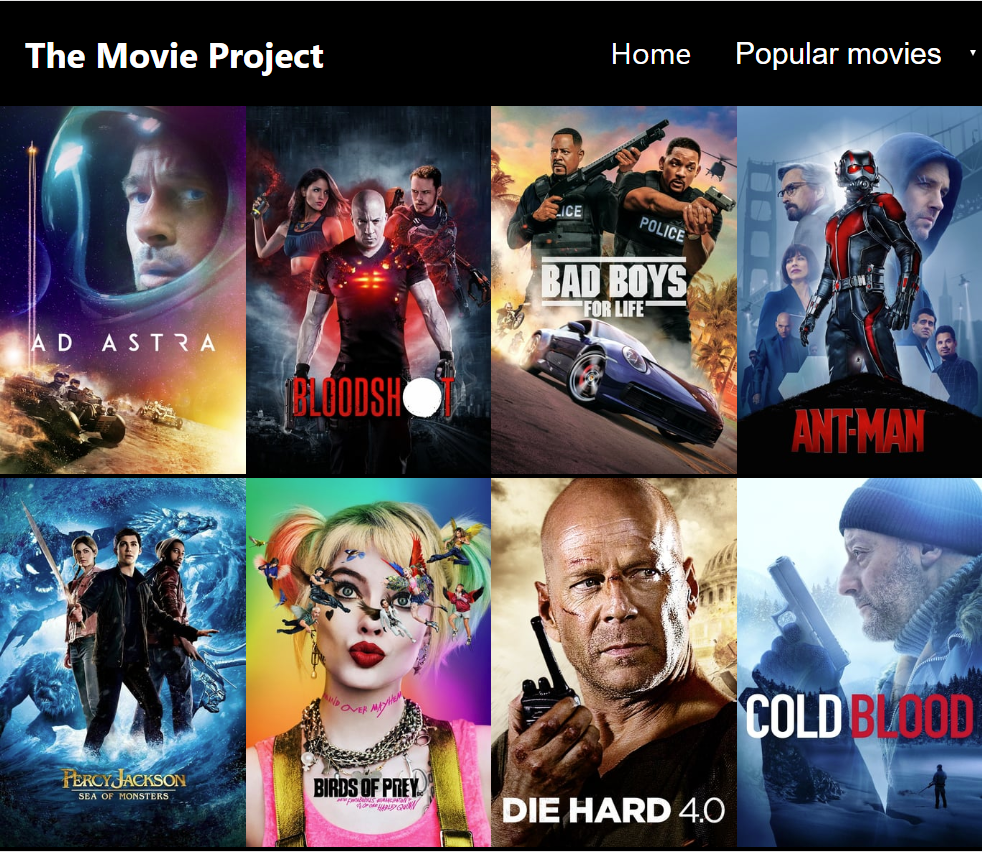
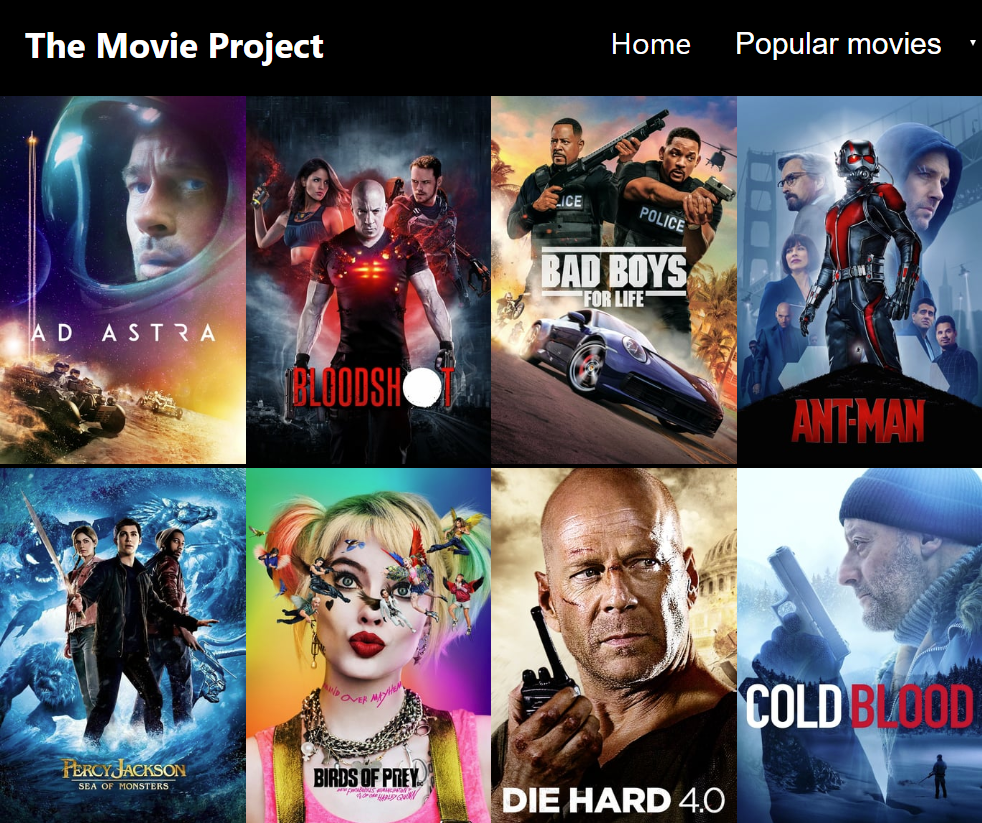
Styling & images updates

diff --git a/style.css b/style.css
@@ -21,7 +21,7 @@ header {
     background-size: cover;
     background-repeat: no-repeat;
     background-position: center;
-    filter: grayscale(40%);
+    filter: grayscale(30%);
 }
 
 .header-container {
@@ -110,7 +110,7 @@ section {
 }
 
 .grey {
-    background-color: rgb(241, 244, 244);
+    background-color: rgba(247, 144, 113, 0.05);
 }
 
 h4 {
@@ -121,13 +121,13 @@ h4 {
 }
 
 .heading-red {
-    background-color: #de7119;
+    background-color: rgb(255, 87, 51);
     color: #FFFFFF;
     font-size: 22px;
 }
 
 .heading-white {
-    color: #de7119;
+    color: #16817a;
     font-size: 21px;
     margin-top: 50px;
 }
@@ -145,7 +145,7 @@ section a:link {
 section a:hover {
     opacity: 0.7;
     text-decoration: underline;
-    color: rgba(250, 57, 47, 0.39);
+    color: rgb(255, 87, 51);
 }
 
 
@@ -158,7 +158,7 @@ section a:hover {
 .line-dot {
     height: 3px;
     width: 50px;
-    background-color: #FA382F;
+    background-color: #16817a;
     position: relative;
     float: left;
     top: 12px;
@@ -168,7 +168,7 @@ section a:hover {
 .line-dot::after {
     height: 11px;
     width: 11px;
-    background-color: #FA382F;
+    background-color: #16817a;
     border-radius: 50%;
     position: relative;
     content: "";
@@ -182,7 +182,7 @@ section a:hover {
 }
 
 .content span {
-    color: #FA382F;
+    color: rgb(255, 87, 51);
 }
 
 
@@ -193,14 +193,14 @@ section a:hover {
 
 .project-image-container {
     width: 100%;
-    height: 65%;
+    height: 232px;
     position: relative;
 }
 
 .project-cards img {
     width: 100%;
     height: 100%;
-    filter: grayscale(30%)
+    filter: grayscale(50%)
 }
 
 .filter-image {
@@ -209,7 +209,7 @@ section a:hover {
     left: 0;
     width: 100%;
     height: 100%;
-    background-color: rgba(0, 0, 0, 0.3);
+    background-color: rgba(95, 93, 93, 0.3);
     display: flex;
     align-items: center;
     justify-content: center;
@@ -225,12 +225,12 @@ section a:hover {
 
 .project-title {
     font-weight: bold;
-    color: #FA382F;
+    color: rgb(255, 87, 51);
 }
 
 .project-title-arrows {
     font-weight: bold;
-    color: #FA382F;
+    color: rgb(255, 87, 51);
     text-decoration: underline;
 }
 
@@ -240,9 +240,11 @@ section a:hover {
 }
 
 .code-language-cards {
-    background-color: #FDDFE7;
-    color: #2B2E34;
-    font-size: 10px;
+    background-color: white;
+    color: #16817a;
+    border: teal 1px solid;
+    border-radius: 4px;
+    font-size: 12px;
     margin: 3px;
     padding: 3px 5px;
 }
@@ -264,11 +266,12 @@ section a:hover {
 
 .thoughts-cards img {
     width: 100%;
+    height: 232px;
 }
 
 .thoughts-title {
     font-weight: lighter;
-    color: #FA382F;
+    color: rgb(255, 87, 51);
 }
 
 .thoughts-text {
@@ -302,7 +305,7 @@ section a:hover {
 
 h5 {
     font-family: 'Roboto', sans-serif, bold;
-    color: #FA382F; 
+    color: #16817a; 
     margin: 0px;
     font-size: 18px;
 }
@@ -331,7 +334,7 @@ ul {
 }
 
 .section-icons-div {
-    border: 3px solid #FF0000;
+    border: 3px solid rgb(255, 87, 51);
     border-radius: 50%;
     height: 58px;
     width: 58px;
@@ -345,14 +348,14 @@ ul {
 
 h6 {
     font-family: 'Montserrat', sans-serif, bold;
-    color: #FA382F; 
+    color: rgb(255, 87, 51); 
     margin: 15px 0px;
     font-size: 12px;
 }
 
 /***** Footer *****/
 footer {
-    background-color: teal;
+    background-color: #024249;
     color: #FFFFFF;
     height: 266px;
     display: flex;

diff --git a/index.html b/index.html
@@ -60,7 +60,7 @@
             <div class="project-cards section-container featured-cards-all">
                 <a href="https://github.com/elsareutersward/project-react-native-app">
                     <div class="project-image-container">
-                        <img src="assets/weatherapp.png" alt="Picture of mobile app">  
+                        <img src="assets/tiltgame.jpg" alt="Picture of mobile app">  
                         <div class="filter-image"><h6>TILT GAME</h6></div>
                     </div>
                     <p><span class="project-title">MOBILE APP IN REACT NATIVE.</span> Mobile game app build in React Native. <span class="project-title-arrows">>></span></p>
@@ -102,7 +102,7 @@
             <div class="project-cards section-container featured-cards featured-cards-all">
                 <a href="https://github.com/elsareutersward/project-weather-app">
                     <div class="project-image-container">
-                        <img src="assets/weatherapp3.png" alt="Picture of weather app">
+                        <img src="assets/weatherapp.png" alt="Picture of weather app">
                         <div class="filter-image"><h6>ALWAYS SUNNY</h6></div>   
                     </div>
                     <p><span class="project-title">WEATHER APP.</span> Web app build in Javascript using open weather API. <span class="project-title-arrows">>></span></p>
